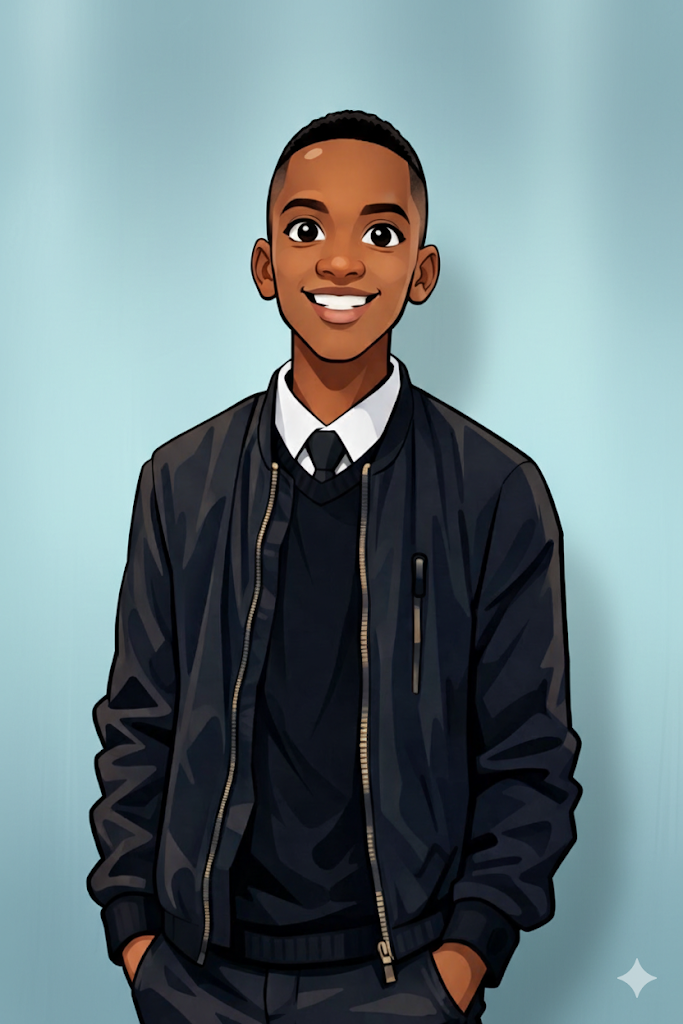
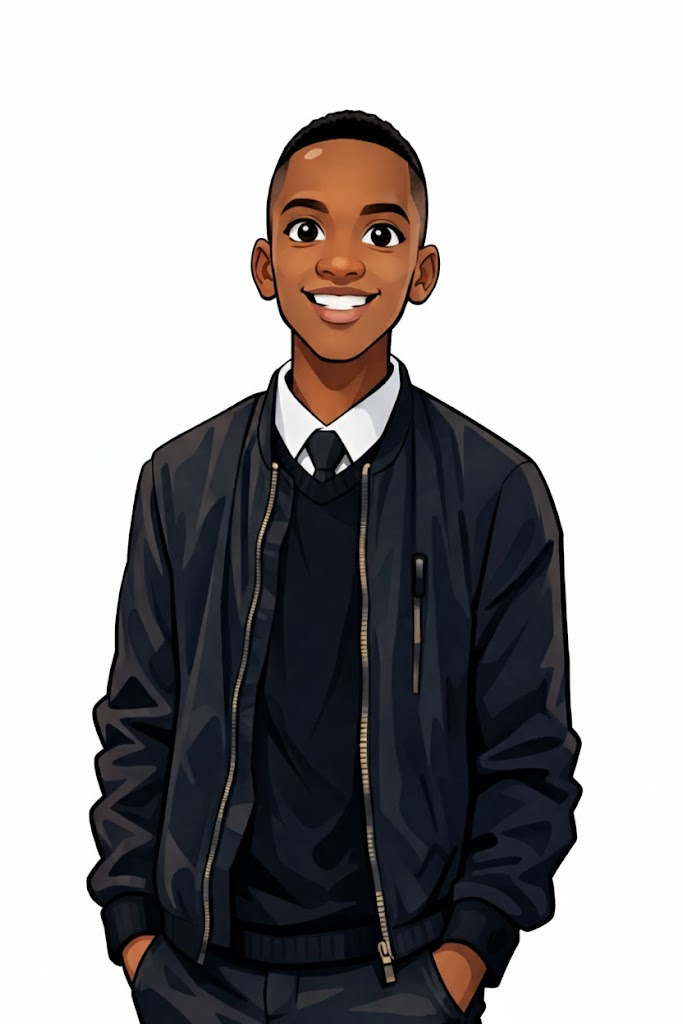
feat: New profile picture updated

diff --git a/src/components/Hero.jsx b/src/components/Hero.jsx
@@ -90,9 +90,7 @@ const Hero = ({ scrollToSection, onScanClick, isDarkMode }) => {
             >
               <div className="absolute inset-0 bg-blue-500 rounded-full blur-3xl opacity-10 group-hover:opacity-20 transition-opacity duration-500"></div>
               <div 
-                className={`w-72 h-72 md:w-96 md:h-96 rounded-full overflow-hidden border relative z-10 shadow-2xl transition-all duration-500 ${
-                  isDarkMode ? 'border-white/5 bg-transparent' : 'border-slate-200 bg-white'
-                }`}
+                className="w-72 h-72 md:w-96 md:h-96 rounded-full overflow-hidden border-2 border-white/10 relative z-10 shadow-2xl bg-white"
               >
                 <img 
                   src={profileImg} 
